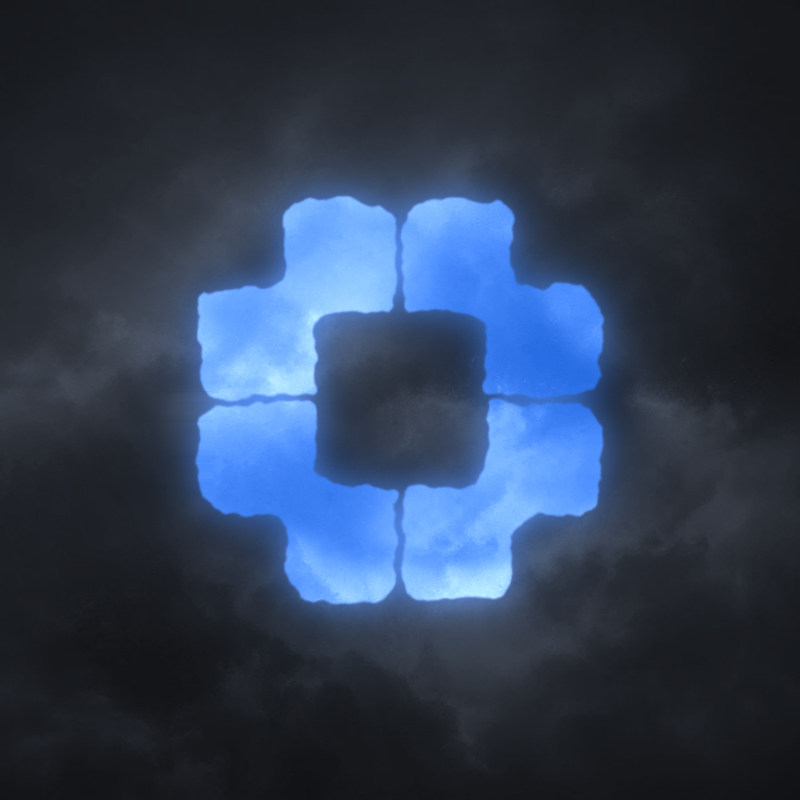
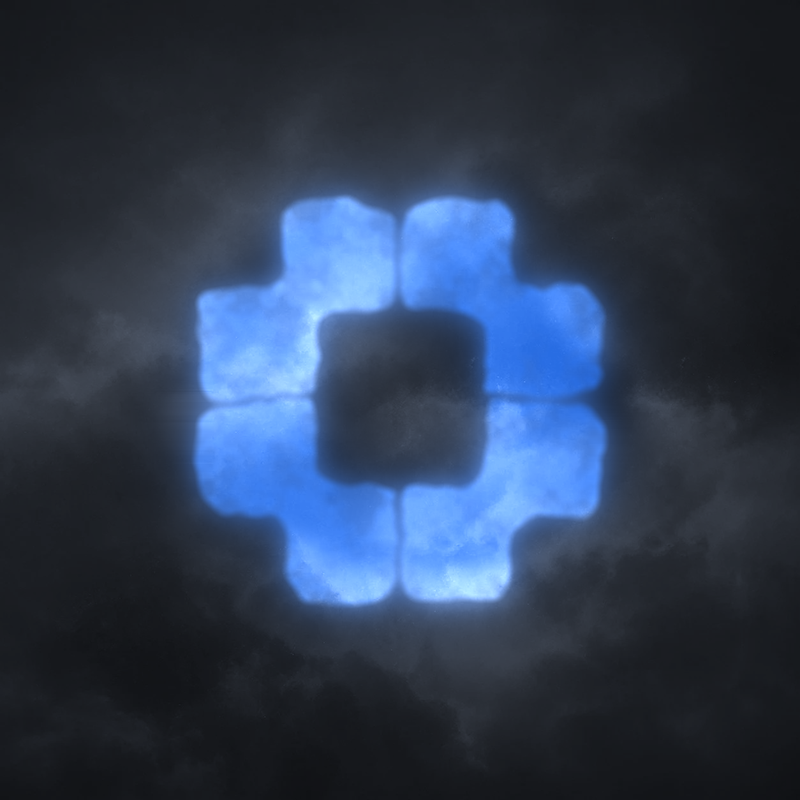
Header on the clean mountain photo, softer cloud profile picture
Claude-Session: https://claude.ai/code/session_013SeK9HfBS5mTcQRqXyuLnD

diff --git a/trailfi/brand/strydo-x-header-clouds.html b/trailfi/brand/strydo-x-header-clouds.html
@@ -5,7 +5,7 @@
 *{margin:0;padding:0;box-sizing:border-box}
 body{width:1500px;height:500px;overflow:hidden;background:#05070b;font-family:SG;color:#fff;position:relative}
 /* The hero photo, cropped to the peaks and clouds */
-.photo{position:absolute;inset:0;background:url(strydo-trail-cloud.jpg) no-repeat;background-size:2246px auto;background-position:0 -18px;filter:saturate(.55) brightness(.72)}
+.photo{position:absolute;inset:0;background:url(strydo-trail.jpg) no-repeat;background-size:2246px auto;background-position:0 -18px;filter:saturate(.55) brightness(.72)}
 .shade{position:absolute;inset:0;background:
   linear-gradient(to bottom,rgba(5,7,11,.35),rgba(5,7,11,.05) 55%,rgba(5,7,11,.75)),
   linear-gradient(to left,rgba(5,7,11,.55),transparent 45%),

diff --git a/trailfi/brand/cloud-mark-mask.py b/trailfi/brand/cloud-mark-mask.py
@@ -29,30 +29,40 @@ def smooth(e0, e1, x):
 # squashed a touch and leaned with the wind like a real cloud bank.
 MASK = sys.argv[8]
 k = W / 514
-mk = Image.open(MASK).convert("L").resize((int(W), int(W * 0.9)), Image.LANCZOS).rotate(-4, resample=Image.BICUBIC, expand=True)
+mk = Image.open(MASK).convert("L").resize((int(W), int(W * 0.9)), Image.LANCZOS)
+# Widen the slits between the four pieces so they survive as clear sky once the edges turn to vapour.
+from PIL import ImageFilter
+mk = mk.filter(ImageFilter.MinFilter(9)).rotate(-4, resample=Image.BICUBIC, expand=True)
 m = Image.new("L", (W_, H_), 0)
 m.paste(mk, (int(CX - mk.width / 2), int(CY - mk.height / 2)))
 mask = np.asarray(m).astype(np.float32) / 255
 
 # Wind: stretch and tear the shape sideways with large, soft warps, then let fine noise fray the edges.
-wx = fractal([14, 40], [0.7, 1.0]) * 6 + 3 * np.sin(yy / 19.0)
+wx = fractal([14, 40], [0.7, 1.0]) * 5 + 2.5 * np.sin(yy / 23.0)
 wy = fractal([14, 40], [0.7, 1.0]) * 3
 mask = nd.map_coordinates(mask, [yy + wy, xx + wx], order=1)
 fray = fractal([2, 6, 16], [0.35, 0.7, 1.0])
-mask = nd.gaussian_filter(mask, 2.6)
+mask = nd.gaussian_filter(mask, 3.0)
 mask = smooth(0.05, 0.95, mask + 0.45 * fray * mask * (1 - mask) * 4)   # wispy, uneven edges
-mask = nd.gaussian_filter(mask, 1.8)
+mask = nd.gaussian_filter(mask, 2.4)
 
 # Density varies like real vapour: thick in places, almost gone in others, fading toward the outer tips.
 density = smooth(-1.4, 1.2, fractal([5, 14, 40], [0.4, 0.7, 1.0]))
 ends = np.exp(-(((xx - CX) / (W * 0.7)) ** 2))
-amount = STRENGTH * mask * (0.6 + 0.4 * density) * (0.75 + 0.25 * ends)
+amount = STRENGTH * mask * (0.5 + 0.5 * density) * (0.75 + 0.25 * ends)
 
 # Cloud colour and texture come from the photo's own brightest cloud; gaps get a touch of the thinner, darker sky.
 lum = img.mean(axis=2)
 cloud_col = np.percentile(img.reshape(-1, 3)[lum.reshape(-1) > np.percentile(lum, 97)], 60, axis=0)
 texture = (fractal([1.5, 4], [0.5, 1.0]) * 0.02)[..., None]
-cloud = np.clip(cloud_col + texture, 0, 1)
+# Real clouds are lit from above: billows catch light on top and fall into grey shadow underneath,
+# with big soft swirls of brighter and darker vapour across the whole formation.
+soft = nd.gaussian_filter(mask, 9)
+underside = np.clip(soft - nd.shift(soft, (-16, 0), order=1, mode="nearest"), 0, 1)
+topside = np.clip(soft - nd.shift(soft, (16, 0), order=1, mode="nearest"), 0, 1)
+swirl = fractal([8, 22, 60], [0.4, 0.7, 1.0])
+shade = np.clip(0.9 + 0.08 * swirl - 0.55 * underside + 0.3 * topside, 0.7, 1.08)[..., None]
+cloud = np.clip(cloud_col * shade + texture, 0, 1)
 out = img + (cloud - img) * amount[..., None]
 
 halo = np.clip(nd.gaussian_filter(nd.grey_dilation(mask, size=(int(18 * k) | 1,) * 2), 4) - mask, 0, 1)

diff --git a/trailfi/brand/cloud-pfp.py b/trailfi/brand/cloud-pfp.py
@@ -1,5 +1,5 @@
 """The profile picture: the mark glowing in electric blue inside dark storm clouds, filled with the clouds' own
-texture and with frayed, vapour like edges, the same treatment the Stepit picture had."""
+texture and with soft, misty edges, the same treatment the Stepit picture had."""
 import sys
 import numpy as np
 from PIL import Image
@@ -29,12 +29,13 @@ mask = np.zeros((H, W), np.float32)
 o = (SIZE - mw) // 2
 mask[o:o + mw, o:o + mw] = mk
 yy, xx = np.mgrid[0:H, 0:W].astype(np.float32)
-wx, wy = fractal([6, 18], [0.6, 1.0]) * 3, fractal([6, 18], [0.6, 1.0]) * 3
+# Soft, misty edges like vapour (not torn paper): a gentle warp, a wide feather and patchy density.
+wx, wy = fractal([10, 30], [0.6, 1.0]) * 4, fractal([10, 30], [0.6, 1.0]) * 4
 mask = nd.map_coordinates(mask, [yy + wy, xx + wx], order=1)
-fray = fractal([1.5, 4, 10], [0.4, 0.7, 1.0])
-mask = nd.gaussian_filter(mask, 2.2)
-mask = np.clip((mask - 0.5) * 1.6 + 0.5 + 0.18 * fray * (mask * (1 - mask) * 4), 0, 1)
-mask = nd.gaussian_filter(mask, 1.2)
+mask = nd.gaussian_filter(mask, 5.5)
+density = np.clip(0.82 + 0.18 * fractal([6, 20], [0.5, 1.0]), 0.55, 1.0)
+mask = np.clip((mask - 0.5) * 1.25 + 0.5, 0, 1) * density
+mist = nd.gaussian_filter(mask, 14) * 0.35
 
 # Fill: electric blue lit by the cloud texture underneath, brighter in the thick parts.
 tex = np.clip(lum / max(lum[mask > 0.5].mean(), 1e-3), 0.55, 1.6)[..., None]
@@ -45,7 +46,7 @@ fill = np.clip(deep + (light - deep) * t, 0, 1) * np.clip(0.7 + 0.35 * tex, 0, 1
 # Glow: a soft blue light spilling into the clouds around the mark.
 glow = nd.gaussian_filter(mask, 26) * 0.55 + nd.gaussian_filter(mask, 70) * 0.35
 out = sky + np.array([0.18, 0.48, 1.0]) * glow[..., None] * 0.9
-out = out + (fill - out) * mask[..., None]
+out = out + (fill - out) * np.clip(mask + mist * (1 - mask), 0, 1)[..., None]
 img = Image.fromarray((np.clip(out, 0, 1) * 255).astype(np.uint8))
 img.resize((800, 800), Image.LANCZOS).save(OUT)
 print("ok")
